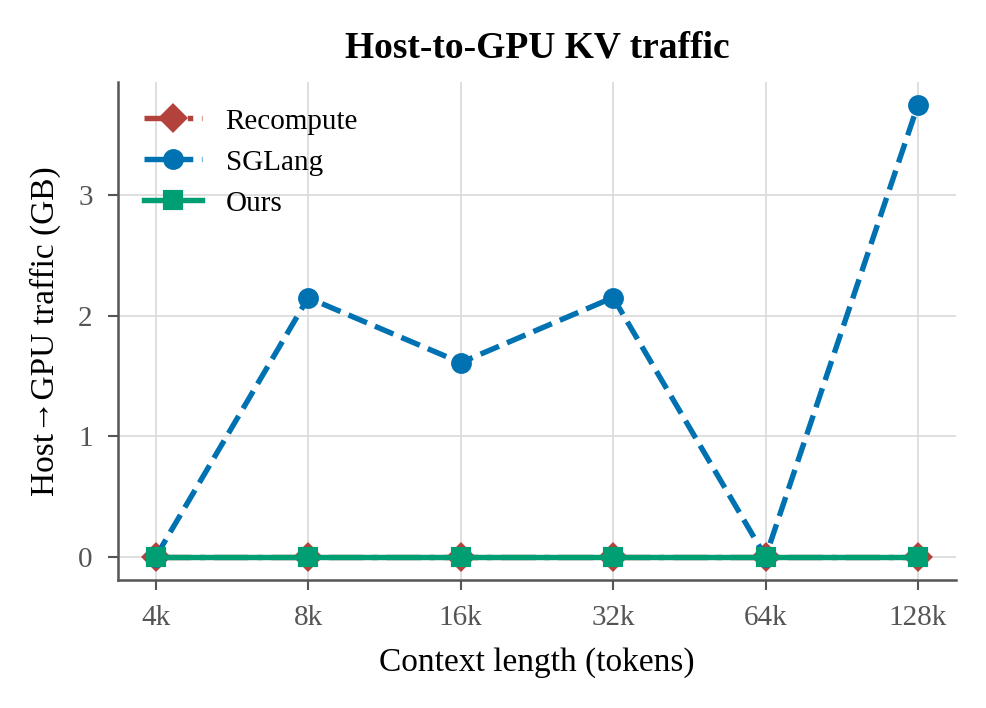
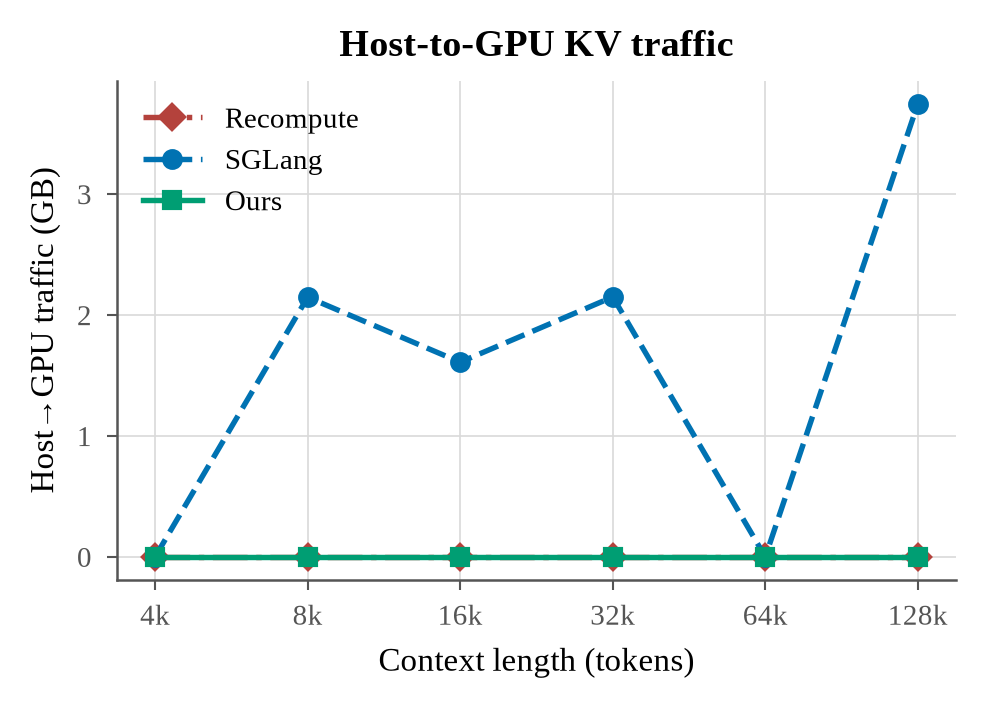
Regenerate host-gpu-traffic figure with merged 4k-128k data; add park hit/miss diagnostic
Figure now covers all 6 context lengths from the merged recompute/hicache/park
JSONs. recompute stays 0 everywhere (clean negative control across every
point collected so far). hicache shows nonzero traffic at 8k/16k/32k/128k
but is still 0 at 4k and 65536 -- not yet a clean monotonic trend. park
reads ~0 GB almost everywhere on both host_gb and park_gpu_gpu_gb, which
is ambiguous: it's consistent with the design goal (avoid host traffic via
GPU-GPU parking) but equally consistent with phase 4 just never finding
anything parked and recomputing from scratch, and the two look identical
on the GB counters alone.

Added park_fetch_hits/park_fetch_miss to the probe's row output (from
idle_kv_parking's own fetch_hits/fetch_miss counters) so the next run can
tell those two cases apart -- not recoverable from the already-collected
data since the per-run delta wasn't being captured before this.

diff --git a/benchmark/host_gpu_traffic_probe.py b/benchmark/host_gpu_traffic_probe.py
@@ -102,10 +102,14 @@ def bytes_per_token():
 
 
 def snapshot_park():
-    """Cumulative FETCHED tokens by serving tier, summed across every prefill's
-    telemetry file. host = read back from CPU DRAM (Host->GPU traffic); local/peer =
-    read back from a GPU park pool (GPU->GPU, no host DRAM involved)."""
-    host_tok = gpu_tok = 0
+    """Cumulative FETCHED tokens by serving tier, plus raw hit/miss counts, summed
+    across every prefill's telemetry file. host = read back from CPU DRAM (Host->GPU
+    traffic); local/peer = read back from a GPU park pool (GPU->GPU, no host DRAM
+    involved). hits/miss distinguish "0 GB because the mechanism avoided host traffic"
+    from "0 GB because nothing was ever found parked and every phase-4 hit just
+    recomputed from scratch" -- the two look identical on host_gb/park_gpu_gpu_gb
+    alone but mean opposite things."""
+    host_tok = gpu_tok = hits = miss = 0
     for path in glob.glob(os.path.join(PARK_DIR, "parked_gpu*.json")):
         try:
             with open(path) as fh:
@@ -115,7 +119,9 @@ def snapshot_park():
         tier = d.get("fetch_tok_tier") or {}
         host_tok += int(tier.get("host") or 0)
         gpu_tok += int(tier.get("local") or 0) + int(tier.get("peer") or 0)
-    return host_tok, gpu_tok
+        hits += int(d.get("fetch_hits") or 0)
+        miss += int(d.get("fetch_miss") or 0)
+    return host_tok, gpu_tok, hits, miss
 
 
 def snapshot_hicache_tokens():
@@ -305,7 +311,7 @@ def main():
         docs = [build_doc(tok, i, L) for i in range(n_docs)]
         flood = [build_doc(tok, f"flood{i}", L) for i in range(n_flood)]
 
-        h0, p0 = snapshot_park()
+        h0, p0, hits0, miss0 = snapshot_park()
         lb0 = snapshot_hicache_tokens()
 
         print("  phase 1/4 (warm hit, hit_count=1)...")
@@ -331,12 +337,14 @@ def main():
             dt = send(d)
             print(f"    doc {i}: {dt:.2f}s")
 
-        h1, p1 = snapshot_park()
+        h1, p1, hits1, miss1 = snapshot_park()
         lb1 = snapshot_hicache_tokens()
 
         host_bytes_park = max(0, h1 - h0) * bpt
         gpu_gpu_bytes_park = max(0, p1 - p0) * bpt
         host_bytes_hicache = max(0.0, lb1 - lb0) * bpt
+        park_hits = max(0, hits1 - hits0)
+        park_miss = max(0, miss1 - miss0)
 
         row = {
             "context_len": L,
@@ -348,6 +356,11 @@ def main():
             ),
             "park_gpu_gpu_gb": round(gpu_gpu_bytes_park / 1e9, 4),
             "bytes_per_token": bpt,
+            # park-only diagnostic: distinguishes "0 GB, avoided host traffic" from
+            # "0 GB, phase 4 never even found anything parked and just recomputed" --
+            # only meaningful for arm=park (hicache/recompute don't publish this file).
+            "park_fetch_hits": park_hits,
+            "park_fetch_miss": park_miss,
         }
         print(f"  -> {row}")
         rows.append(row)
